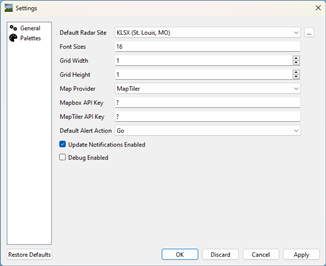
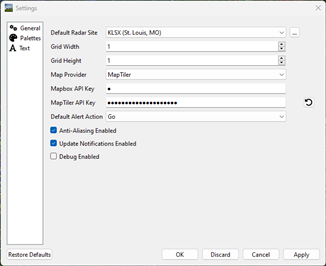
Updating initial setup for new wizard

diff --git a/getting-started/initial-setup.rst b/getting-started/initial-setup.rst
@@ -42,28 +42,43 @@ be installed. In openSUSE, a certificate workaround must be installed.
 Once downloaded, untar the application to its own folder, and launch
 supercell-wx from the bin folder.
 
+Setup Wizard
+------------
+
+The first time the application is launched, a setup wizard will appear. Follow
+the instructions displayed on the screen to configure the application for first
+use.
+
+The Map Provider page displays first. Here, a map API key must be configured,
+using either `MapTiler <https://www.maptiler.com/>`_ or `Mapbox
+<https://www.mapbox.com/>`_ (specify the desired map provider). After creating
+an account and reviewing terms of service, create an API key (or public token)
+with default scopes (unless one is created for you).
+
+.. image:: images/initial-setup-06-wizard-map-provider.png
+
+.. note:: Both MapTiler and Mapbox offer free tiers. At the time of writing,
+          Mapbox requires a credit card for sign-up, while MapTiler does not.
+
+.. note:: Future releases will add a basic map when no map source is configured.
+
+Next, the Map Layout page displays. Here, the default display of a single map
+can be changed. The Map Layout can be configured as large as a 2x2 grid.
+
+.. image:: images/initial-setup-07-wizard-map-layout.png
+
 Configuration
 -------------
 
-The first time the application is launched, a black screen will appear in place
-of the map.
+If no map API key has been entered, a black screen will appear in place of the
+map. An API key can be reconfigured in settings, following the API key
+instructions above.
 
 .. image:: images/initial-setup-01-initial-startup-small.png
 
 Using the menu, navigate to the Settings window using **File > Settings**.
 
 .. image:: images/initial-setup-02-initial-settings-small.png
-
-Here, a map API key must be configured, using either `MapTiler
-<https://www.maptiler.com/>`_ or `Mapbox <https://www.mapbox.com/>`_ (specify
-the desired map provider). After creating an account and reviewing terms of
-service, create an API key (or public token) with default scopes (unless one is
-created for you).
-
-.. note:: Both MapTiler and Mapbox offer free tiers. At the time of writing,
-          Mapbox requires a credit card for sign-up, while MapTiler does not.
-
-.. note:: Future releases will add a basic map when no map source is configured.
 
 Additional options can be configured in the Settings dialog as desired. Once
 complete, press **OK** and restart the application.
